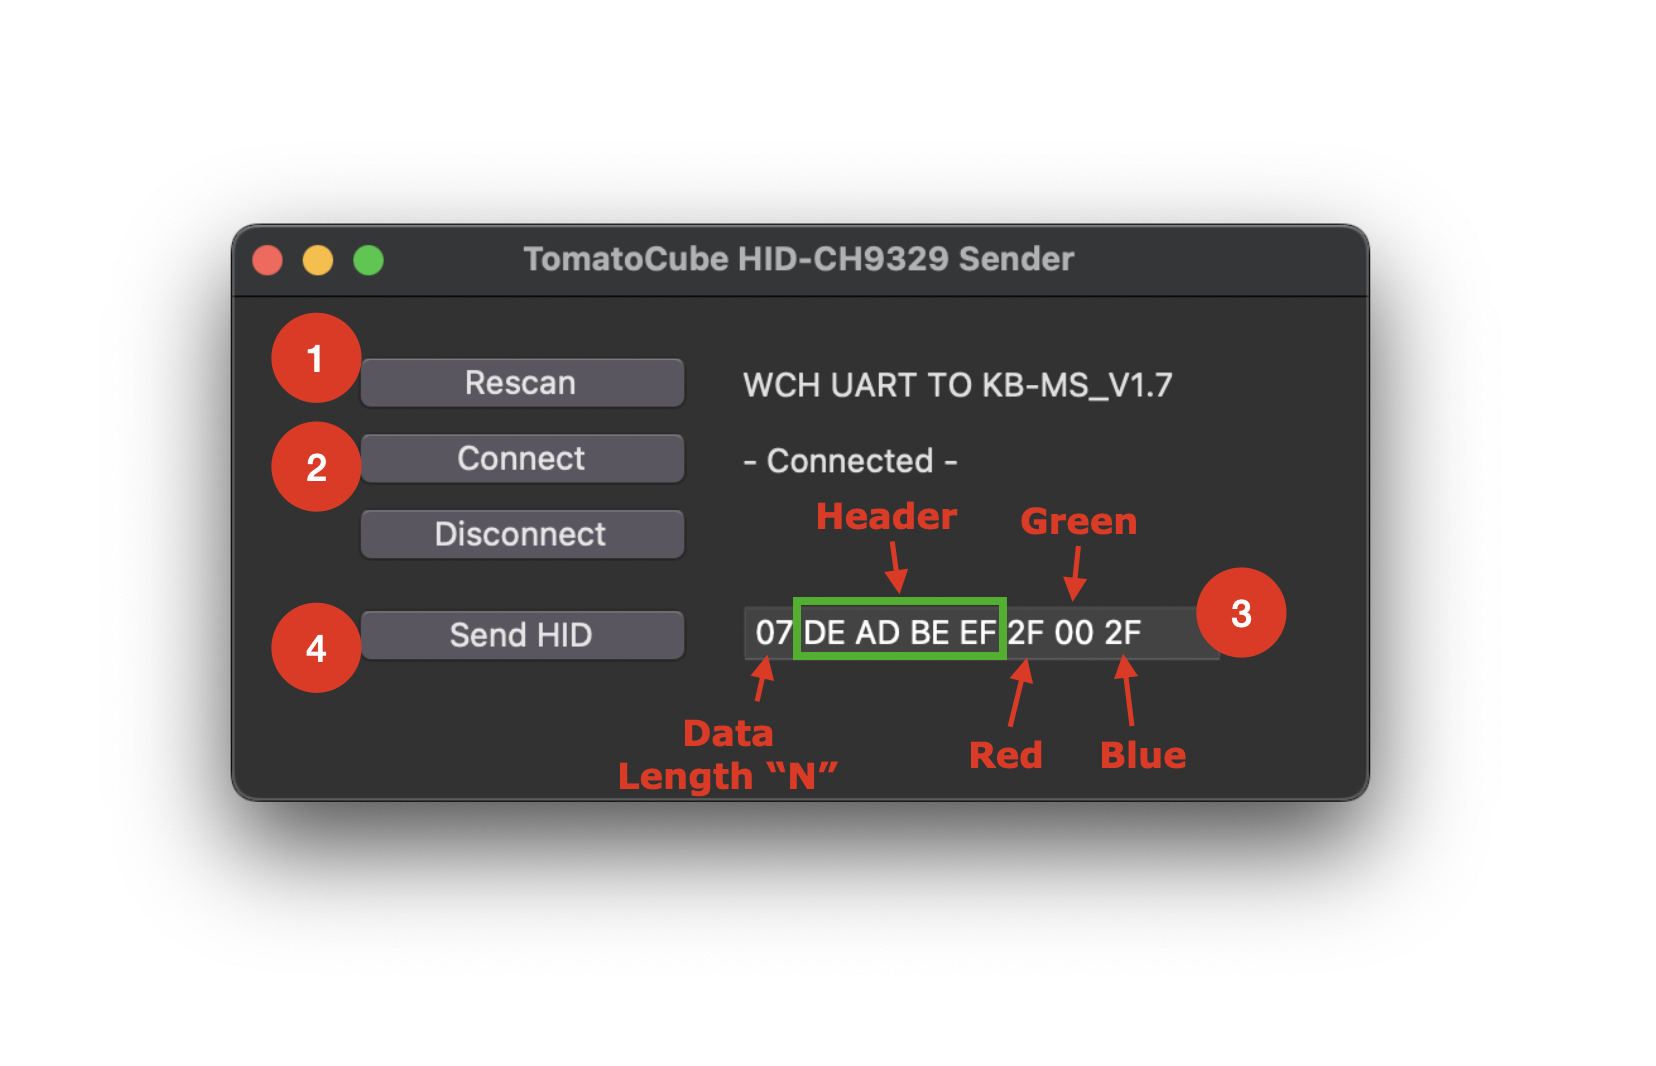
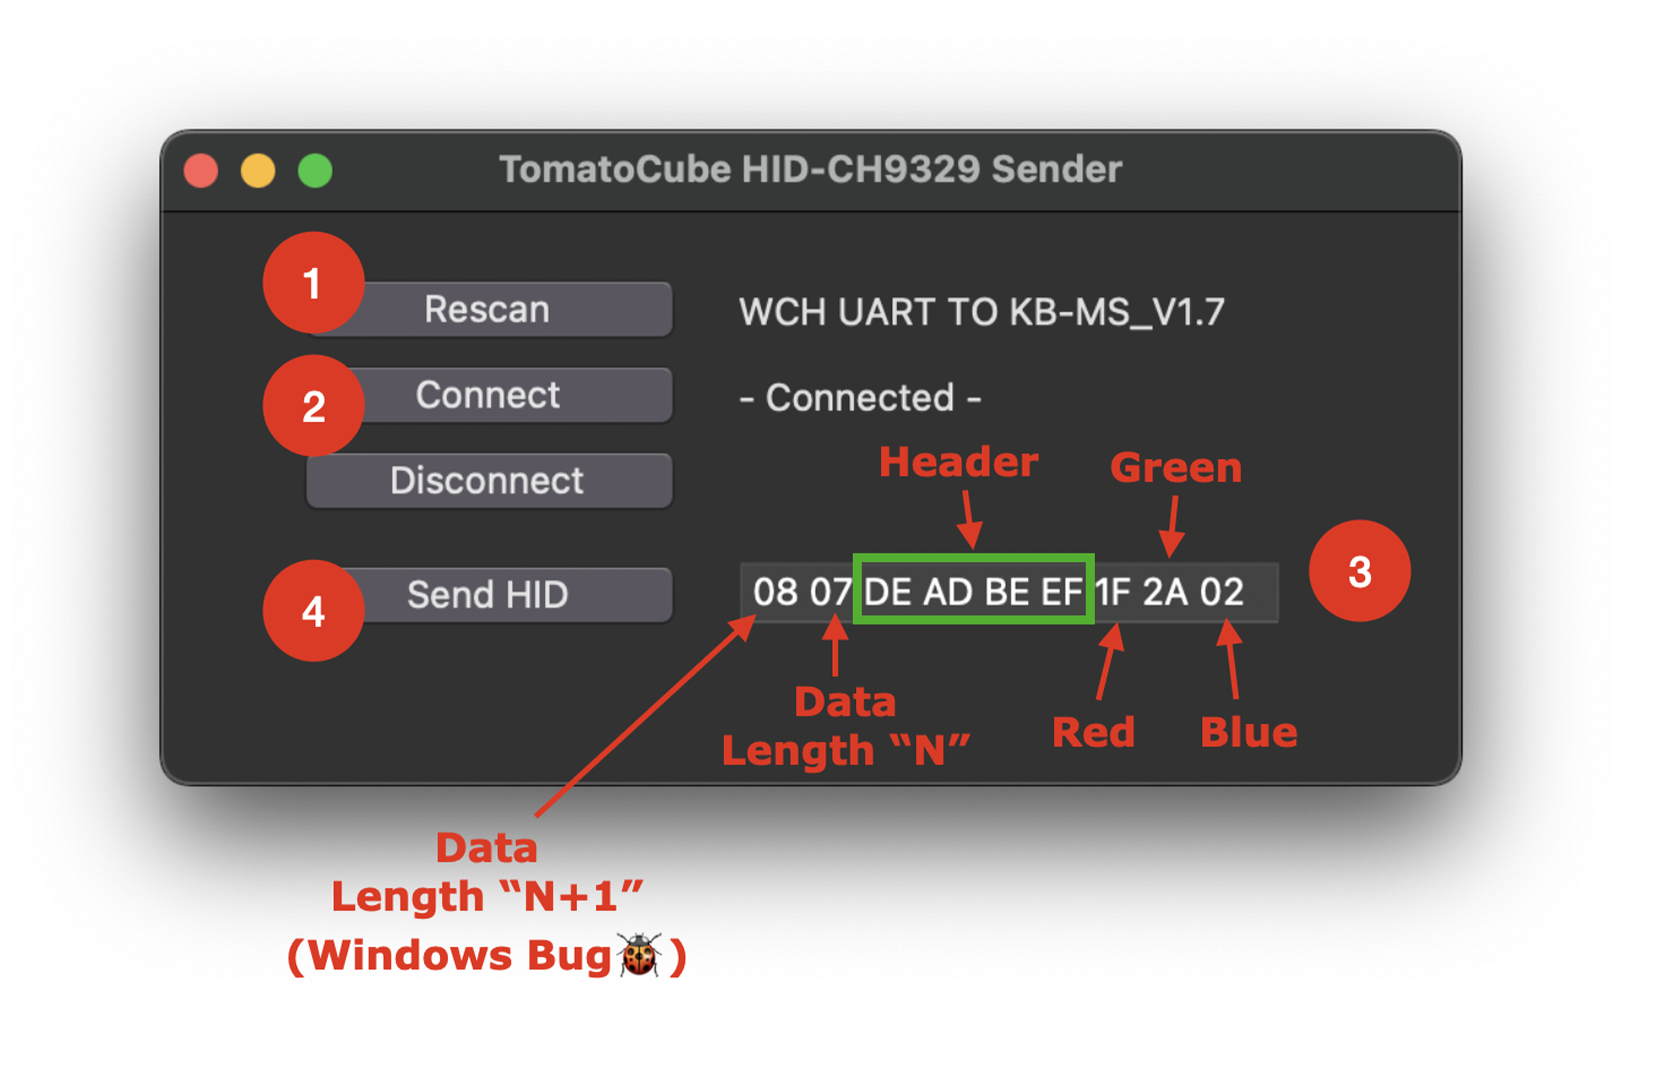
Add files via upload

diff --git a/Tutorial_Files/Tutorial_6/LatticeMacroKey-Tutorial-06.md b/Tutorial_Files/Tutorial_6/LatticeMacroKey-Tutorial-06.md
@@ -81,7 +81,7 @@ On top of the NeoPixel Library code, you’ll also need the CH9329 HID Receiver 
 
 HDL Code Tutorial #5: [USB Custom HID upstream transfer using Python ](https://github.com/TomatoCube18/Lattice_FPGA_MacroKeys/tree/main/Tutorial_Files/Tutorial_4_&_5/LatticeMacroKey-Tutorial-05.md)
 
-> **NeoPixels Controller Module File (\*.v):** Here is the NeoPixels Controller source code from our [repository: ws2812b_controller.v](https://github.com/TomatoCube18/Lattice_FPGA_MacroKeys/blob/main/Tutorial_Files/Tutorial_3/Files/Tutorial03-02-ws2812b_controller.v) for your convenience.
+> **CH9329 HID receiver Module File (\*.v):** Here is the CH9329 HID receiver source code from our [repository: ch9329_HID_receiver.v](https://github.com/TomatoCube18/Lattice_FPGA_MacroKeys/blob/main/Tutorial_Files/Tutorial_4_%26_5/Files/Tutorial04-04-ch9329_HID_receiver.v)  for your convenience.
 
 And here is the Python script that goes along with it.
 
@@ -89,15 +89,15 @@ And here is the Python script that goes along with it.
 
 
 
-##### [Step 4:](#Chapter4_5_1_4) Creating the ???
+##### [Step 4:](#Chapter4_5_1_4) Creating the Memory Demo Top-level Source Code
 
-???.
+Now that we have our I2C Memory Controller Module Interface, we can write the Top-Level HDL code that ties everything together. This code will also instantiate the other necessary modules such as the **NeoPixels** & the **CH9329 HID Sensor Receiver module** and orchestrate the reading and writing of data to the EEPROM. Ultimately sending the Data to our NeoPixels.
 
 ###### Verilog Top-level file (\*.v):
 ```verilog
 `timescale 1ns / 1ps
  
-module USB_RGB_Light(swA,swB,swC,swD,swE,swF,swU,rx,tx,tx2,neopixel);
+module Memory_Demo(swA,swB,swC,swD,swE,swF,swU,rx,tx,tx2,neopixel,scl,sda);
     input wire swA;	
     input wire swB;
     input wire swC;
@@ -111,59 +111,181 @@ module USB_RGB_Light(swA,swB,swC,swD,swE,swF,swU,rx,tx,tx2,neopixel);
     output wire tx2;
   
   	output wire neopixel;
+	
+		output wire scl;
+		inout wire sda;
 
     parameter SYS_FREQ = 12_090_000;
+	
+		// I2C Memory
+		reg start;
+    reg rw;                    // 0 = Write, 1 = Read
+    reg [7:0] data_in;
+    reg [7:0] address;
+    wire [7:0] data_out;
+		wire done;
+    reg [3:0] state;
+    reg [3:0] byte_counter;   // To keep track of the 3 bytes
+		reg [7:0] r_color_reg;
+		reg [7:0] g_color_reg;
+		reg [7:0] b_color_reg;
+	
+    reg [3:0] btn1_buff;
+		reg [3:0] btn2_buff;
+		reg data_valid_prev;
 
-    //Uart Receiver
+    // States
+    localparam IDLE = 4'd0;
+    localparam WRITE = 4'd1;
+    localparam READ = 4'd2;
+
+    // Uart Receiver
     wire [7:0] r_color;
     wire [7:0] g_color;
     wire [7:0] b_color;
-	wire data_valid;
-	reg data_valid_prev;
+    wire data_valid;
   
   	// Neopixel
-	reg neo_refresh;
+    reg [11:0]neo_count;
+    wire neo_refresh = neo_count[11];
     reg [23:0] test_color;	/// = 24'b000000000001111100000000;
-    //reg [23:0] test_color2;
+    reg [23:0] test_color2;
 
     // Internal OSC setting (12.09 MHz)
     OSCH #( .NOM_FREQ("12.09")) IOSC (
         .STDBY		(1'b0	),
-        .OSC		(clk	),
-        .SEDSTDBY	(	    )
+        .OSC			(clk	),
+        .SEDSTDBY	(	)
     );
+	
+	// Instatiate i2c Memory Controller
+	i2c_eeprom #(SYS_FREQ) eeprom_u (
+        .clk		(clk	),		// System clock
+        .rst_n	(swU	),		// Active low reset
+        .start	(start),		// Start signal
+        .rw			(rw		),		// Read/Write signal (1 = Read, 0 = Write)
+        .address	(address	),	// EEPROM memory address
+        .data_in	(data_in	),	// Data to write
+				.data_out	(data_out	),	// Data read from EEPROM
+				.done		(done	),		// Operation complete signal	
+        .scl		(scl	),		// I2C clock line
+				.sda		(sda	)			// I2C data line   
+    );
+	
+	// i2c Memory Demo Code
+	always @(posedge clk or negedge swU) begin
+        if (!swU) begin			// Reset aka Button_U pressed
+            state <= IDLE;
+            start <= 0;
+            rw <= 0;
+            data_in <= 8'h00;
+            address <= 8'h00;
+            byte_counter <= 0;
+            btn1_buff <= 4'h0F;
+						btn2_buff <= 4'h0F;
+			
+						data_valid_prev <= 0;
+        end else begin
+            btn1_buff <= {btn1_buff[2:0],swC};	//for SwitchC Debouncing & State Change
+            btn2_buff <= {btn2_buff[2:0],swA}; //for SwitchA Debouncing & State Change
+			
+            data_valid_prev <= data_valid;
+            if (data_valid && !data_valid_prev) 
+                begin
+                      r_color_reg <= r_color[7:0];
+                      g_color_reg <= g_color[7:0];
+                      b_color_reg <= b_color[7:0];
+                end
+            test_color <= {r_color_reg, g_color_reg, b_color_reg};
+
+            case (state)
+                IDLE: begin
+                    if ((btn1_buff == 4'h03) ) begin
+                        address <= 8'h05; // Set EEPROM address to 0x01
+                        data_in <= r_color;  // First byte to write, dummy  Intensity
+                        rw <= 0;           // Write operation
+                        start <= 1;
+                        state <= WRITE;
+                        byte_counter <= 1;
+                    end else if ((btn2_buff == 4'h03) ) begin
+                        address <= 8'h05; // Start reading from address 0x01
+                        rw <= 1;          // Read operation
+                        start <= 1;
+                        state <= READ;
+                        byte_counter <= 0;
+										end	
+                end
+
+                WRITE: begin
+                    start <= 0;
+                    if (done) begin
+												if (byte_counter == 3) begin
+                            state <= IDLE;
+                        end else begin
+														case (byte_counter)
+                                1: data_in <= g_color;  // Second byte to write, Green
+                                2: data_in <= b_color;  // Third byte to write, Blue
+                            endcase
+                            address <= address + 1;
+														byte_counter <= byte_counter + 1;
+                            start <= 1;
+														state <= WRITE;
+                        end 
+                    end 
+                end
+
+                READ: begin
+                    start <= 0;
+                    if (done) begin
+												if (byte_counter == 2) begin
+															b_color_reg <= data_out;  // Third byte to write, Blue
+                            	state <= IDLE;
+                        end else begin
+                              case (byte_counter)
+                                  0: r_color_reg <= data_out;  // First byte to read, Red
+                                  1: g_color_reg <= data_out;  // Second byte to write, Green
+                              endcase
+
+                              address <= address + 1;
+                              byte_counter <= byte_counter + 1;
+                              rw <= 1;          // Read operation
+                              start <= 1;
+                              state <= READ;
+												end
+                    end 
+                end
+
+                default: state <= IDLE;
+            endcase
+        end
+    end
+	
 
   	// Instatiate NeoPixel Controller
     ws2812b_controller #(SYS_FREQ) ws2812b_controller_u (
         .clk     		(clk    ), 
         .rst_n   		(swU    ),
-        .rgb_data_0	    (test_color),		// RGB color data for LED 0 (8 bits for R, G, B)
-        .rgb_data_1	    (test_color),		// RGB color data for LED 1
-        .start_n		(neo_refresh),	    // Start signal to send data
-        .data_out		(neopixel)			// WS2812B data line        
+        .rgb_data_0	(test_color),		// RGB color data for LED 0 (8 bits for each of R, G, B)
+        .rgb_data_1	(test_color),		// RGB color data for LED 1
+        .start_n		(!neo_refresh),	// Start signal to send data
+				.data_out		(neopixel)			// WS2812B data line        
     );
 
     // NeoPixel Control
-    always @(posedge clk) begin	
-    	if (!swU) begin		// Reset aka Button_U pressed
-			data_valid_prev <= 0;
-        end else begin
-			data_valid_prev <= data_valid;
-            neo_refresh <= !(data_valid && !data_valid_prev);
-    		test_color <= {r_color[7:0], g_color[7:0], b_color[7:0]};
-		end
+    always @(posedge clk) begin			// Stupid Code just to refresh the color!!
+				neo_count <= neo_count + 1;	// Proper way would be do detect State Trasition
     end
     
   	// UART Receiver	
-    ch9329_HID_receiver #(SYS_FREQ) ch9329_HID_receiver_u (
-        .clk		(clk	),      // System clock
-        .rst_n	    (swU	),      // Active low reset
-        .rx			(rx		),      // UART receive pin
+		ch9329_HID_receiver #(SYS_FREQ) ch9329_HID_receiver_u (
+        .clk				(clk	),			// System clock
+        .rst_n			(swU	),			// Active low reset
+        .rx					(rx		),			// UART receive pin
         .data_byte1	(r_color	),	// Array to store 3 bytes of data
         .data_byte2	(g_color	), 
         .data_byte3	(b_color	), 
-        .data_valid	(data_valid )	// Flag to indicate valid data reception 
-    );
+        .data_valid	(data_valid	)	// Flag to indicate valid data reception 
+	);
 
 endmodule
 ```
@@ -176,13 +298,19 @@ endmodule
 
 After programming the generated JEDEC file into the FPGA, the HDL configuration will take effect. Ensure the micro-USB is connected to your computer. 
 
-We will not proceed toverify that the EEPROM is correctly storing and retrieving data as expected. This step is crucial to ensure that your I2C communication is functioning correctly.
+We will now proceed to verify that the EEPROM is correctly storing and retrieving data as expected. This step is crucial to ensure that your I2C communication is functioning correctly. There is only 2 CherryMX Switches mapped with functionality. 
+
+* **CherryMX Switch C** - Save the current HID received NeoPixel Color configuration into Memory Location #5-Red, #6-Green & #7-Blue.
+* **CherryMX Switch A** - Retrieve & Display the NeoPixel Color configuration from Memory Location #5~#7
+
+![Memory Buttons Function](https://github.com/TomatoCube18/Lattice_FPGA_MacroKeys/blob/main/Tutorial_Files/Tutorial_6/Images/Tutorial06-02-Button_Purpose.png?raw=true)
 
 By the end of this tutorial, you'll have a functional FPGA design capable of reading from and writing to an I2C EEPROM, providing your project with the ability to retain data even when powered off (Hint: KeyPad Macro Settings & User Configuration). This is a powerful capability that enhances the versatility and functionality of your FPGA-based systems.
 
-![CH9329 HID Sender](https://github.com/TomatoCube18/Lattice_FPGA_MacroKeys/blob/main/Tutorial_Files/Tutorial_4_&_5/Images/Tutorial04-03-CH9329_HIDSender_Py.png?raw=true)
+
 
 ### [4.6.2](#Chapter4_6_2) Additional Challenge
+
 ...
 
 

diff --git a/Tutorial_Files/Tutorial_4_&_5/LatticeMacroKey-Tutorial-05.md b/Tutorial_Files/Tutorial_4_&_5/LatticeMacroKey-Tutorial-05.md
@@ -195,7 +195,12 @@ Using our **CH9329_HIDSender** Python script to the Macro-KeyPad. send the follo
 
 ![CH9329 HID Sender](https://github.com/TomatoCube18/Lattice_FPGA_MacroKeys/blob/main/Tutorial_Files/Tutorial_4_&_5/Images/Tutorial04-03-CH9329_HIDSender_Py.png?raw=true)
 
+> ‼ Those keen-eyes individual might have noticed the Data Length "N+1" prefixed infront of our data payload (String), it is unexplainable why Microsoft Window will chomp up one byte from the incoming HID messages, but anywho... with our **"4-Magic Header Signature"**, we do not have to worry too much about which OS you are running.
+
+
+
 ### [4.5.2](#Chapter4_5_2) Additional Challenge
+
 ###### Converting Python script to executable (\*.exe):
 
 Use [PyInstaller](https://pypi.org/project/pyinstaller/) to convert the Python script into an executable file if needed.
